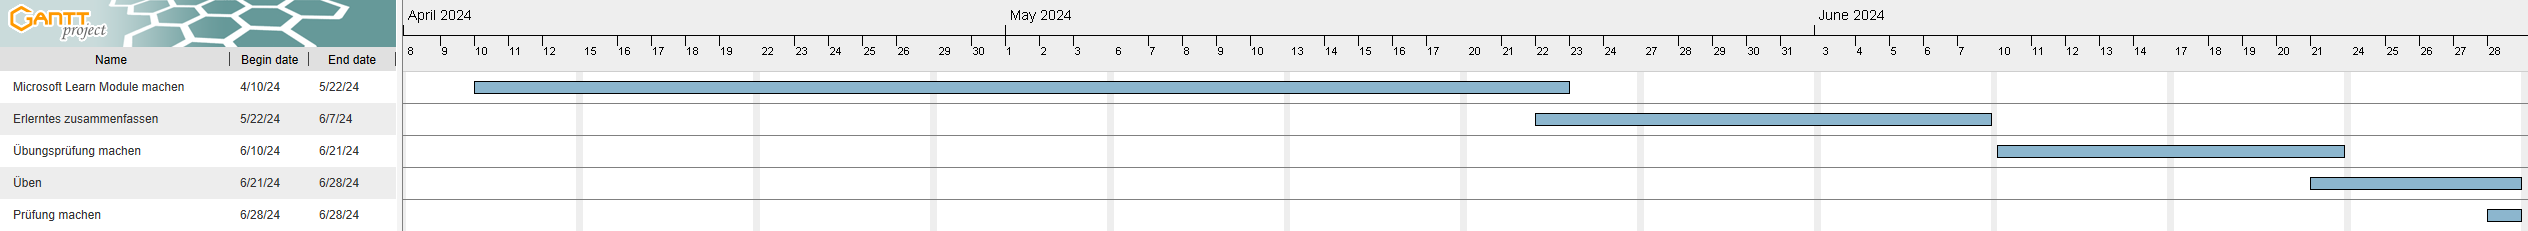
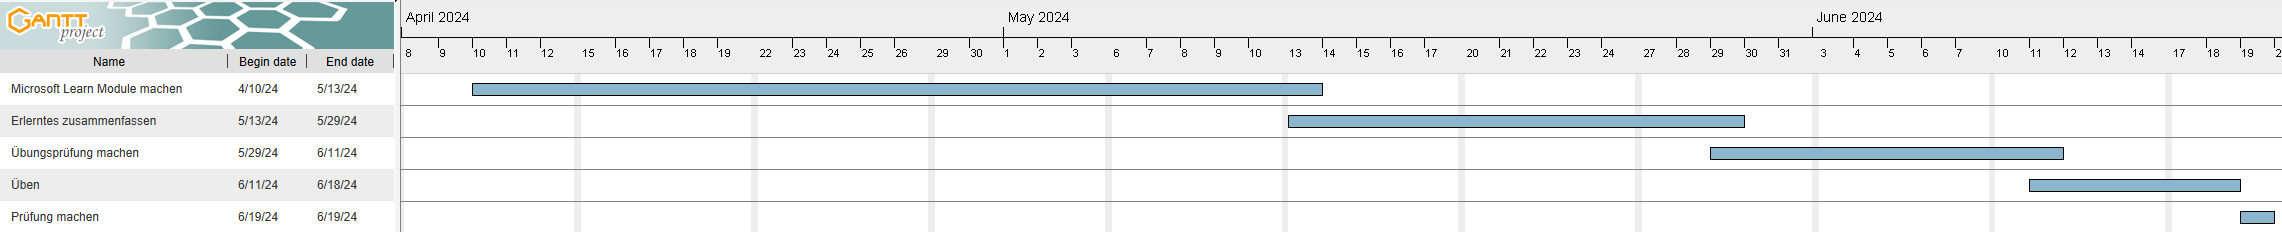
Anpassung pläne

diff --git a/Sites/Teil 1 Einleitung.md b/Sites/Teil 1 Einleitung.md
@@ -31,7 +31,8 @@
 | ------- | ------ | ---- | --------- |
 | 1.0 | 24.05.2024 | Laura Dubach | Inhaltsverzeichnis, Einleitung Dokumentation |
 | 1.1 | 27.05.2024 | Laura Dubach | Titelseite, Weiterarbeit Einleitung Dokumentation, Verlinkung, Zeitplan und Lernplan erstellen |
-| 1.2 | 28.05.2024 | Laura Dubach | Thema Informieren dokumentieren, Verlinkung |
+| 1.2 | 28.05.2024 | Laura Dubach | Thema Informieren dokumentieren, Verlinkung, Zertifizierungstermin buchen |
+| 1.3 | 30.05.2024 | Laura Dubach | Zeitplan -und Lernplan anpassen, start zusammenfassung AZ-900 Module |
 
 
 # Teil 1 Einleitung
@@ -122,11 +123,11 @@ Damit keine Daten verloren gehen können, werde ich alle Dokumente, auf meinem O
 
 # Zeitplan
 
-![Zeitplan](/Semesterarbeit1/Pictures/Zeitplan.png)
+![Zeitplan](../Pictures/Zeitplan.png)
 
 # Lernplan
 
-![Lernplan](/Semesterarbeit1/Pictures/Lernplan.png)
+![Lernplan](../Pictures/Lernplan.png)
 
 # Besprechungsprotokoll
 
